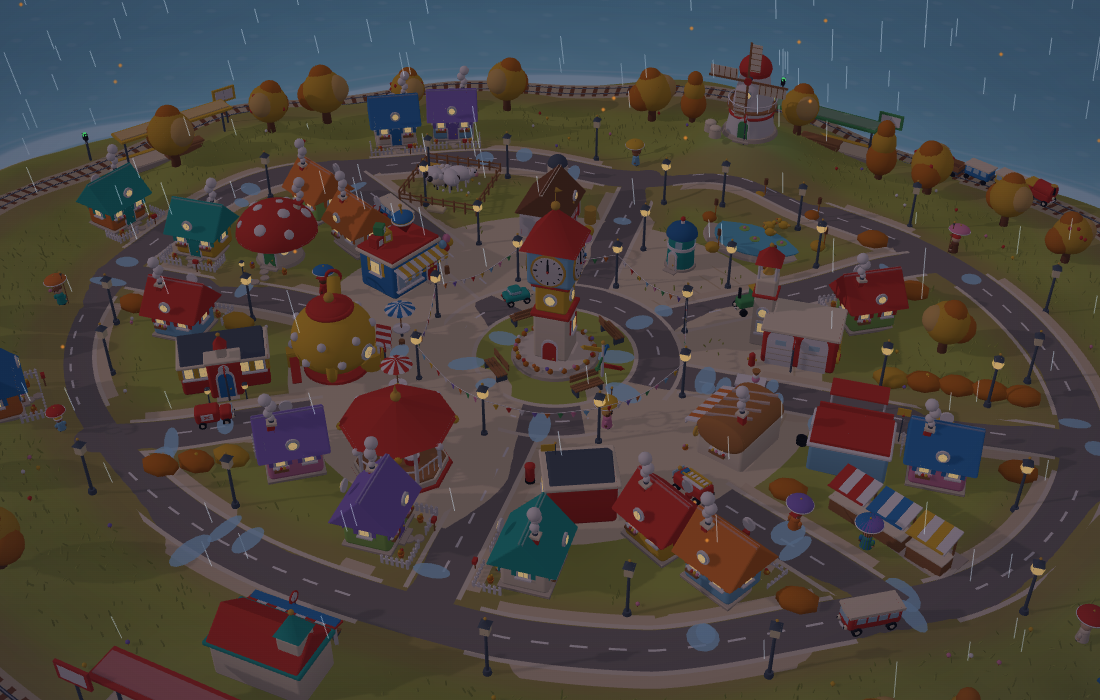
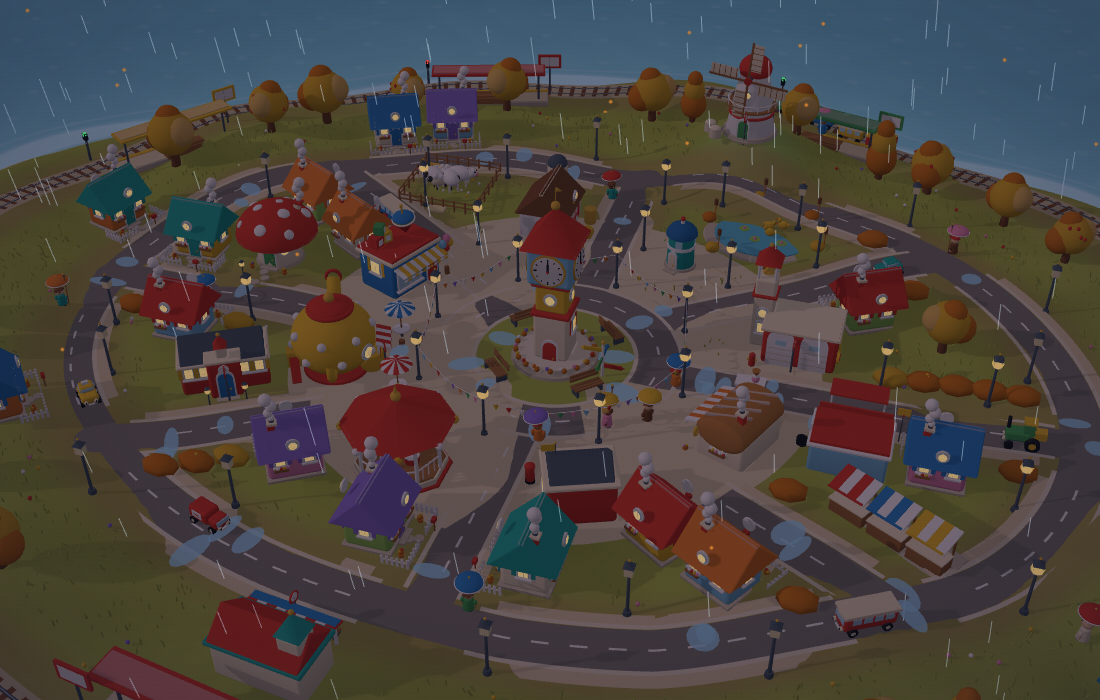
New Toy Town: a real week, set pieces, friendships, a six-station train with a timetable and tracked parcels (#230)
* Toy Town: a rooftop billboard, and a town living the day's news

The Toy Town Times is now a billboard on a building's roof instead of
standing over the road. The news shows the way a real town would: a
plane towing the headline, neighbours chatting about the story by name,
newspaper kiosks on free corners, bunting over the streets on match,
festival, election and premiere days, buses headed for the STADIUM or
the FESTIVAL, and windows flickering blue with the telly at night.

Claude-Session: https://claude.ai/code/session_016DDzLFPb4BuxMAThu2pji2

* Toy Town: the billboard moves to the town's corner

On a rooftop near the front it hid the houses behind it. It now stands
on the grass at the right-hand corner, with only sky behind it.

Claude-Session: https://claude.ai/code/session_016DDzLFPb4BuxMAThu2pji2

* Toy Town: softer type and new feed-driven moments (pre-port snapshot)

Lighter rounded type, open-air cinema with the picture of the day, an
on-this-day time traveller, paper round, stargazer and fireflies, and
tap-a-person chat from the most-read pages. Built on the pre-v51 town;
to be ported onto master before publishing.

Claude-Session: https://claude.ai/code/session_016DDzLFPb4BuxMAThu2pji2

* Sync with master (drop the pre-port snapshot; its ideas are re-done on the current town)

* docs(toy-town): Claude START — miniature-photo look pass

Claude-Session: https://claude.ai/code/session_016DDzLFPb4BuxMAThu2pji2

* data: refresh attributed Toy Town headlines
[…]

diff --git a/toy-town-new.html b/toy-town-new.html
@@ -25,7 +25,10 @@ canvas:active{cursor:grabbing}
 #snd{position:fixed;right:calc(12px + env(safe-area-inset-right,0px));top:calc(12px + env(safe-area-inset-top,0px));width:34px;height:34px;border:0;border-radius:50%;background:var(--paper);font-size:17px;line-height:1;cursor:pointer;padding:0}
 #seasons a{margin-left:6px;text-decoration:none;filter:grayscale(.6)}
 #seasons a.on{filter:none}
-#jobs{position:fixed;left:calc(12px + env(safe-area-inset-left,0px));top:calc(48px + env(safe-area-inset-top,0px));max-width:min(78vw,360px);padding:5px 10px;border-radius:12px;background:var(--paper);font:400 12px/1.35 Nunito,system-ui,sans-serif;cursor:pointer}
+#stack{position:fixed;left:calc(12px + env(safe-area-inset-left,0px));top:calc(48px + env(safe-area-inset-top,0px));display:flex;flex-direction:column;align-items:flex-start;gap:6px;max-width:min(78vw,360px)}
+#track{display:none;padding:5px 10px;border-radius:12px;background:#fff0b8;font:600 12px/1.35 Nunito,system-ui,sans-serif;color:#3c4654}
+#track.on{display:block}
+#jobs{max-width:100%;padding:5px 10px;border-radius:12px;background:var(--paper);font:400 12px/1.35 Nunito,system-ui,sans-serif;cursor:pointer}
 #jobs b{display:block;font-weight:700}
 #jobs span{display:none}
 #jobs.open span{display:block}
@@ -44,11 +47,11 @@ canvas:active{cursor:grabbing}
 #panel .seg button.on{background:#ffd54a}
 html.ui-off #set,html.ui-off #panel{display:none}
 @media (max-width:560px){
-#chip,#jobs{box-sizing:border-box;max-width:calc(100vw - 80px)}
+#chip,#stack{box-sizing:border-box;max-width:calc(100vw - 80px)}
 #chip{border-radius:16px}
 #chip .long,#hint .long{display:none}
-#jobs{top:calc(66px + env(safe-area-inset-top,0px))}
-#story{top:calc(118px + env(safe-area-inset-top,0px))}
+#stack{top:calc(66px + env(safe-area-inset-top,0px))}
+#story{top:calc(170px + env(safe-area-inset-top,0px))}
 #card{bottom:calc(60px + env(safe-area-inset-bottom,0px))}
 #toast{bottom:calc(156px + env(safe-area-inset-bottom,0px))}
 #panel{top:calc(118px + env(safe-area-inset-top,0px))}
@@ -65,27 +68,29 @@ html.ui-off #set,html.ui-off #panel{display:none}
 }
 #grade{position:fixed;inset:0;pointer-events:none;opacity:0;transition:opacity .6s;background:radial-gradient(ellipse at 50% 46%,rgba(0,0,0,0) 58%,rgba(20,24,44,.2) 100%),linear-gradient(var(--tint,transparent),var(--tint,transparent))}
 #dbg{position:fixed;left:calc(8px + env(safe-area-inset-left,0px));bottom:calc(8px + env(safe-area-inset-bottom,0px));padding:3px 8px;border-radius:8px;background:rgba(0,0,0,.6);color:#fff;font:600 11px/1.3 ui-monospace,Menlo,Consolas,monospace;pointer-events:none;z-index:9}
-html.ui-off #jobs,html.ui-off #toast,html.ui-off #snd,html.ui-off #chip,html.ui-off #hint,html.ui-off #story,html.ui-off #card{display:none}
+html.ui-off #stack,html.ui-off #jobs,html.ui-off #toast,html.ui-off #snd,html.ui-off #chip,html.ui-off #hint,html.ui-off #story,html.ui-off #card{display:none}
 </style>
-<script type="importmap" data-stamp="53e463f300">
+<script type="importmap" data-stamp="ae3d6b8222">
 {"imports":{
   "three":"https://cdn.jsdelivr.net/npm/three@0.187.0/build/three.module.js",
   "three/addons/":"https://cdn.jsdelivr.net/npm/three@0.187.0/examples/jsm/",
-  "./assets/town2/build.mjs":"./assets/town2/build.mjs?v=53e463f300",
-  "./assets/town2/curve.mjs":"./assets/town2/curve.mjs?v=53e463f300",
-  "./assets/town2/def.mjs":"./assets/town2/def.mjs?v=53e463f300",
-  "./assets/town2/graph.mjs":"./assets/town2/graph.mjs?v=53e463f300",
-  "./assets/town2/inspect.mjs":"./assets/town2/inspect.mjs?v=53e463f300",
-  "./assets/town2/nature.mjs":"./assets/town2/nature.mjs?v=53e463f300",
-  "./assets/town2/needs.mjs":"./assets/town2/needs.mjs?v=53e463f300",
-  "./assets/town2/quality.mjs":"./assets/town2/quality.mjs?v=53e463f300",
-  "./assets/town2/settings.mjs":"./assets/town2/settings.mjs?v=53e463f300",
-  "./assets/town2/sim.mjs":"./assets/town2/sim.mjs?v=53e463f300",
-  "./assets/town2/sky.mjs":"./assets/town2/sky.mjs?v=53e463f300",
-  "./assets/town2/smoke.mjs":"./assets/town2/smoke.mjs?v=53e463f300",
-  "./assets/town2/sound.mjs":"./assets/town2/sound.mjs?v=53e463f300",
-  "./assets/town2/stories.mjs":"./assets/town2/stories.mjs?v=53e463f300",
-  "./assets/town2/weather.mjs":"./assets/town2/weather.mjs?v=53e463f300"
+  "./assets/town2/build.mjs":"./assets/town2/build.mjs?v=ae3d6b8222",
+  "./assets/town2/curve.mjs":"./assets/town2/curve.mjs?v=ae3d6b8222",
+  "./assets/town2/def.mjs":"./assets/town2/def.mjs?v=ae3d6b8222",
+  "./assets/town2/graph.mjs":"./assets/town2/graph.mjs?v=ae3d6b8222",
+  "./assets/town2/inspect.mjs":"./assets/town2/inspect.mjs?v=ae3d6b8222",
+  "./assets/town2/memory.mjs":"./assets/town2/memory.mjs?v=ae3d6b8222",
+  "./assets/town2/nature.mjs":"./assets/town2/nature.mjs?v=ae3d6b8222",
+  "./assets/town2/needs.mjs":"./assets/town2/needs.mjs?v=ae3d6b8222",
+  "./assets/town2/quality.mjs":"./assets/town2/quality.mjs?v=ae3d6b8222",
+  "./assets/town2/settings.mjs":"./assets/town2/settings.mjs?v=ae3d6b8222",
+  "./assets/town2/sim.mjs":"./assets/town2/sim.mjs?v=ae3d6b8222",
+  "./assets/town2/sky.mjs":"./assets/town2/sky.mjs?v=ae3d6b8222",
+  "./assets/town2/smoke.mjs":"./assets/town2/smoke.mjs?v=ae3d6b8222",
+  "./assets/town2/sound.mjs":"./assets/town2/sound.mjs?v=ae3d6b8222",
+  "./assets/town2/stories.mjs":"./assets/town2/stories.mjs?v=ae3d6b8222",
+  "./assets/town2/track.mjs":"./assets/town2/track.mjs?v=ae3d6b8222",
+  "./assets/town2/weather.mjs":"./assets/town2/weather.mjs?v=ae3d6b8222"
 }}
 </script>
 </head>
@@ -98,13 +103,13 @@ html.ui-off #jobs,html.ui-off #toast,html.ui-off #snd,html.ui-off #chip,html.ui-
 <div id="grade" aria-hidden="true"></div>
 <div id="story" aria-live="polite"></div>
 <div id="card" aria-live="polite"><button aria-label="Close">×</button><b></b><div></div><button id="send" hidden>Send a parcel from here…</button></div>
-<div id="jobs" title="Tap to open or close"></div>
+<div id="stack"><div id="jobs" title="Tap to open or close"></div><div id="track" aria-live="polite"></div></div>
 <div id="toast" aria-live="polite"></div>
 <div id="hint"><span class="long">Tap anyone or anything · drag to explore · pinch or scroll to zoom · twist (or right-drag, Q/E) to turn</span><span class="short">Tap anyone or anything · drag · pinch to zoom · twist to turn</span></div>
 <div id="fail"><div>The new town could not start.<br><a href="toy-town.html">Open the current town</a>, or try a hard refresh (Ctrl+F5).<br><small id="why"></small><br><small>If it mentions WebGL, turn on hardware acceleration in the browser's settings (in Edge: edge://settings/system).</small></div></div>
 <script>if(/[?&]clean=1\b/.test(location.search))document.documentElement.classList.add('ui-off');</script>
 <script type="module">
-  import('./assets/town2/main.mjs?v=53e463f300').catch(e => { console.error(e); document.getElementById('why').textContent = (e && (e.name + ': ' + e.message)) || String(e); document.getElementById('fail').style.display = 'flex'; });
+  import('./assets/town2/main.mjs?v=ae3d6b8222').catch(e => { console.error(e); document.getElementById('why').textContent = (e && (e.name + ': ' + e.message)) || String(e); document.getElementById('fail').style.display = 'flex'; });
 </script>
 </body>
 </html>

diff --git a/README.md b/README.md
@@ -118,7 +118,7 @@ People no longer walk on the river: every walking leg (events, gatherings, whims
 
 **Faster, same picture.** A profile of the merged city showed about 6,800 draw calls and 3.4 M triangles per frame. The static batcher now bakes plain painted colours into vertex colours (one shared material per surface finish), residents, cars and bicycles merge their plainly painted pieces inside each rigid node, and the sphere/capsule geometry used for people is trimmed (they are 20–60 px tall). Result: about 4,700 draw calls and 2.6 M triangles at the default view with a pixel-identical render (mean difference 0.05/255 against master). The simulation shares one per-frame snapshot of cars and walkers in the carriageway instead of rescanning every mover for every car (1.7 → 0.9 ms per simulated frame).
 
-**A new storybook town (preview).** `toy-town-new.html` (or `toy-town.html?town=new`) is a rebuild in a toy-box style: a roundabout square with a clock tower, a teapot café, a toy shop with a spinning top, a loaf-shaped bakery, a bandstand, a post office, a fire station, a round kiosk, a mushroom cottage and seventeen cottages, a school, a farm and barn, a garage, a harbour hut on a pier and a windmill on its hill. Eight streets run out from the square to a ring road like the spokes of a wheel, and a railway loops round the whole town with a four-car train that stops at four stations, carries commuters and a wagon of mail, milk, bread and parcels you send yourself (tap a building, press send, tap where it should go; a work board shows what is on the move), a market that opens every third day, station signals with a bell, and residents who get hungry, tired and lonely and go and do something about it; a gear button sets the speed of the day, how much work the train gets and the picture quality; the sea moves with foam on the shore, trees and grass sway in a breeze and the sky shades to a warm glow at dawn and dusk (and adapts to slow devices; `?debug=1` shows what the picture costs). Twenty-six named residents go door to door on the pavements by the hour (and sleep at night), keep to their own side and stop to say hello; two buses, taxis, a post van, a milk float, a tractor, an ice-cream van and an on-call fire engine travel the lanes, keeping gaps and taking turns at junctions. The day turns from dawn through dusk to a lit-window night with three lamplighters lighting the street lamps, it rains with umbrellas up and puddles, there are four seasons, two dozen small stories (some staged by the day's light headlines), you can tap anyone or anything to see what they are up to and follow them, a speaker button turns on synthesised wind, birds, crickets, rain and the clock striking, and the render resolution adapts on slow phones. The whole static town is one mesh (about 65 draw calls, 490 k triangles). The current town stays the default; `TOY_TOWN_NEW_SPEC.md` is the spec and what is still open (real-phone measurement, the switch).
+**A new storybook town (preview).** `toy-town-new.html` (or `toy-town.html?town=new`) is a rebuild in a toy-box style: a roundabout square with a clock tower, a teapot café, a toy shop with a spinning top, a loaf-shaped bakery, a bandstand, a post office, a fire station, a round kiosk, a mushroom cottage and seventeen cottages, a school, a farm and barn, a garage, a harbour hut on a pier and a windmill on its hill. Eight streets run out from the square to a ring road like the spokes of a wheel, and a railway loops round the whole town with a four-car train that stops at four stations, carries commuters and a wagon of mail, milk, bread and parcels you send yourself (tap a building, press send, tap where it should go; a work board shows what is on the move), a week that follows the real day (a small Wednesday market, a big Sunday one, no school at weekends, seasonal weekend set pieces), a six-station train with a timetable and tracking for the parcels you send, station signals with a bell, and residents who get hungry, tired and lonely and go and do something about it; a gear button sets the speed of the day, how much work the train gets and the picture quality; the sea moves with foam on the shore, trees and grass sway in a breeze and the sky shades to a warm glow at dawn and dusk (and adapts to slow devices; `?debug=1` shows what the picture costs). Twenty-six named residents go door to door on the pavements by the hour (and sleep at night), keep to their own side and stop to say hello; two buses, taxis, a post van, a milk float, a tractor, an ice-cream van and an on-call fire engine travel the lanes, keeping gaps and taking turns at junctions. The day turns from dawn through dusk to a lit-window night with three lamplighters lighting the street lamps, it rains with umbrellas up and puddles, there are four seasons, two dozen small stories (some staged by the day's light headlines), you can tap anyone or anything to see what they are up to and follow them, a speaker button turns on synthesised wind, birds, crickets, rain and the clock striking, and the render resolution adapts on slow phones. The whole static town is one mesh (about 65 draw calls, 490 k triangles). The current town stays the default; `TOY_TOWN_NEW_SPEC.md` is the spec and what is still open (real-phone measurement, the switch).
 
 **Resident level of detail.** Plain residents have a second, far figure of three small meshes (body and two legs, about 350 triangles instead of about 10 000, built from the same colours; the legs still swing). Each resident is switched by its projected height on screen (far under 46 px, back to the full rig over 62 px), by one central pass over a registry, so it covers actors, ambient walkers and the city's people. At the default view 88 of 95 residents are far: draw calls 4,462 → 3,062 and triangles 2.56 M → 1.90 M, and close-ups still use the full rig. Residents with a kind, a trade, a briefcase or a hero route never switch.
 

diff --git a/TOY_TOWN_NEW_SPEC.md b/TOY_TOWN_NEW_SPEC.md
@@ -157,6 +157,13 @@ the stamp is stale. If the page cannot start, its panel now shows the real error
 - **Water**: the sea plane has slow swells and soft glints in the fragment shader (`waterify`); the shallows band (a ring from the waterline out to 1.35 of the island radius, alpha fading) carries the shore foam, a second pulsing ring and the wave tint.
 - **Ground and light**: lawn colour has big soft patches (lighter, darker, dry yellowish) and bare soil beside the pavements (a grid of road points answers "how far to a road"); walls and undersides are shaded darker near the ground when the mesh is built (no run-time cost); the sky is a gradient dome (haze colour at the horizon, deeper blue above) with a glow round a low sun; a CSS overlay gives the vignette and a warm dawn and dusk or cool night tint (high tier only).
 
+### The week, memory, timetable and parcel tracking (tested)
+
+- **The week**: `sim.weekday` (0 Monday to 6 Sunday; the page starts on today's real day, `?day=mon..sun` overrides, tests pass `{weekday}`) moves on every 480 s. Saturday and Sunday: `def.weekend` rounds for Dot, Dash, Miss Chalk and Nurse Nell (no school), stories flagged `days: 'week'` do not run, `days: 'weekend'` ones do and are favoured, and set pieces per season (harvest fair, blossom picnic, day by the harbour, snow day) plus Sunday lunch run with only half their cast needed (`relaxed`). Markets: Wednesday small (9 to 15, up to 5 shoppers) and Sunday big (9 to 16, up to 9), `def.MARKET.days`.
+- **Memory** (`memory.mjs`): `r.friends` counts meetings (a hello counts 1, being in the same public place 0.5; 2 is a friend, 5 a close friend), `r.visits` counts visits per public place. A lonely resident joins the closest friend who is in a public place (`friendSpot`) before going to the café; cards say who they are friends with and where they are often found.
+- **Train**: six stations (Central, Harbour, School, Farm, East, Mill), so a lap is about 108 s. `sim.timetable()` guesses arrival times (`track.etas`, median error under 12 s in the test); the station building's card lists them and the train's card gives the next stop with its time. Cargo put down while the train is standing at the station is loaded at once.
+- **Parcel tracking** (`track.mjs`): `stageOf(cargo)` gives the step (six by train: waiting, to the station, at the station, on the train, at the far station, to the door; three if walked), shown in a yellow strip under the work board with dots, with a toast when it arrives; `freightLog` entries carry the cargo id.
+
 ## 5. Art rules
 
 - Fat, rounded, slightly wonky. No sharp corners: `bag.box` is a rounded box; roofs overhang.
@@ -187,6 +194,7 @@ spheres 8; keep that discipline (the first version was 1.05 M triangles from 3-s
 - `sim`, `scene`, `camera`, `renderer`, `view`
 - `info()` → `{calls, triangles, residentsOut, clock, pixelRatio, story, rain, wet, lampsLit, season}`
 - `tapAt(clientX, clientY)`, `selected()`, `select(obj|null)`, `project(x, z, y)` → client coordinates of a ground point
+- `trackText()`, `trackState()`; `?day=`
 - `tier()`, `gov` (the governor), `setQuality(tier|'auto')`, `tufts`, `U` (shader inputs); `?quality=` and `?debug=1`
 - `settings`, `applySettings()`; `info()` also has `market, marketVisits`
 - `trainPos()` (head of the train), `sendParcel(from, to)`, `jobsText()` (the work board text); `info()` also has `delivered, cargoNow, riders`

diff --git a/TOY_TOWN_COLLAB.md b/TOY_TOWN_COLLAB.md
@@ -1221,3 +1221,11 @@ A `START` does not prohibit parallel edits. Avoid stepping on each other's uncom
 - **Change**: tapping now shows a small bobbing pin (a yellow cone with a white ball) above what you tapped, scaled with the zoom, at a height for the kind of thing (people, vehicles, animals, the train, and per building type so it clears roofs, the clock tower and the windmill). A "Highlight what I tap" row in the settings offers Pin (default), Ring (the old one) and None; it is remembered. The card and the camera follow are unchanged.
 - **Tests**: the default is the pin, bad values fall back to it, and the visual test checks that a tap shows the pin and not the ring. **Not verified**: how the pin looks to the owner on a phone (size and height are my guesses).
 
+### 2026-11-10 · Claude · DONE (new storybook town, follow-up 10: the week, seasonal set pieces, friendships, a six-station train with a timetable and tracked parcels)
+- **Request (owner)**: "2 and 3" from my list (more life in the town; make the train matter more).
+- **More life**: a real week (the page starts on today's weekday), no school at weekends (kids and teachers have their own rounds), a small Wednesday market and a big Sunday one, weekend-only set pieces per season, Sunday lunch, and memory: people who keep meeting become friends and look each other up when lonely; cards show friends and favourite places.
+- **Train**: Farm Halt and East Halt added (six stations), a timetable on the station card and the next stop's time on the train's card, parcels you send are tracked stage by stage in a strip under the work board with an arrival toast, and cargo put down at a standing train is loaded straight away.
+- **Found on the way**: the parcel tracker's throttle froze when the test jumped the clock backwards (fixed with an absolute difference); the old market test assumed "every third day" (rewritten for the week); parcels by train can take most of a lap (the loop is one-way) and cannot be collected after 19:12, so a late one waits until morning.
+- **Tests**: week and weekday wrap, school closed at weekends, set pieces in every season and only on their days, memory unit tests and after two days friends and favourite places exist, timetable accuracy against real arrivals, stages move forward and the parcel is logged under its id; visual: Sunday market open and Monday shut with six stations, the tracker on desktop and phone (no overlap with the buttons).
+- **Not verified**: a real phone; the feel of friendships (the numbers are my guesses).
+
